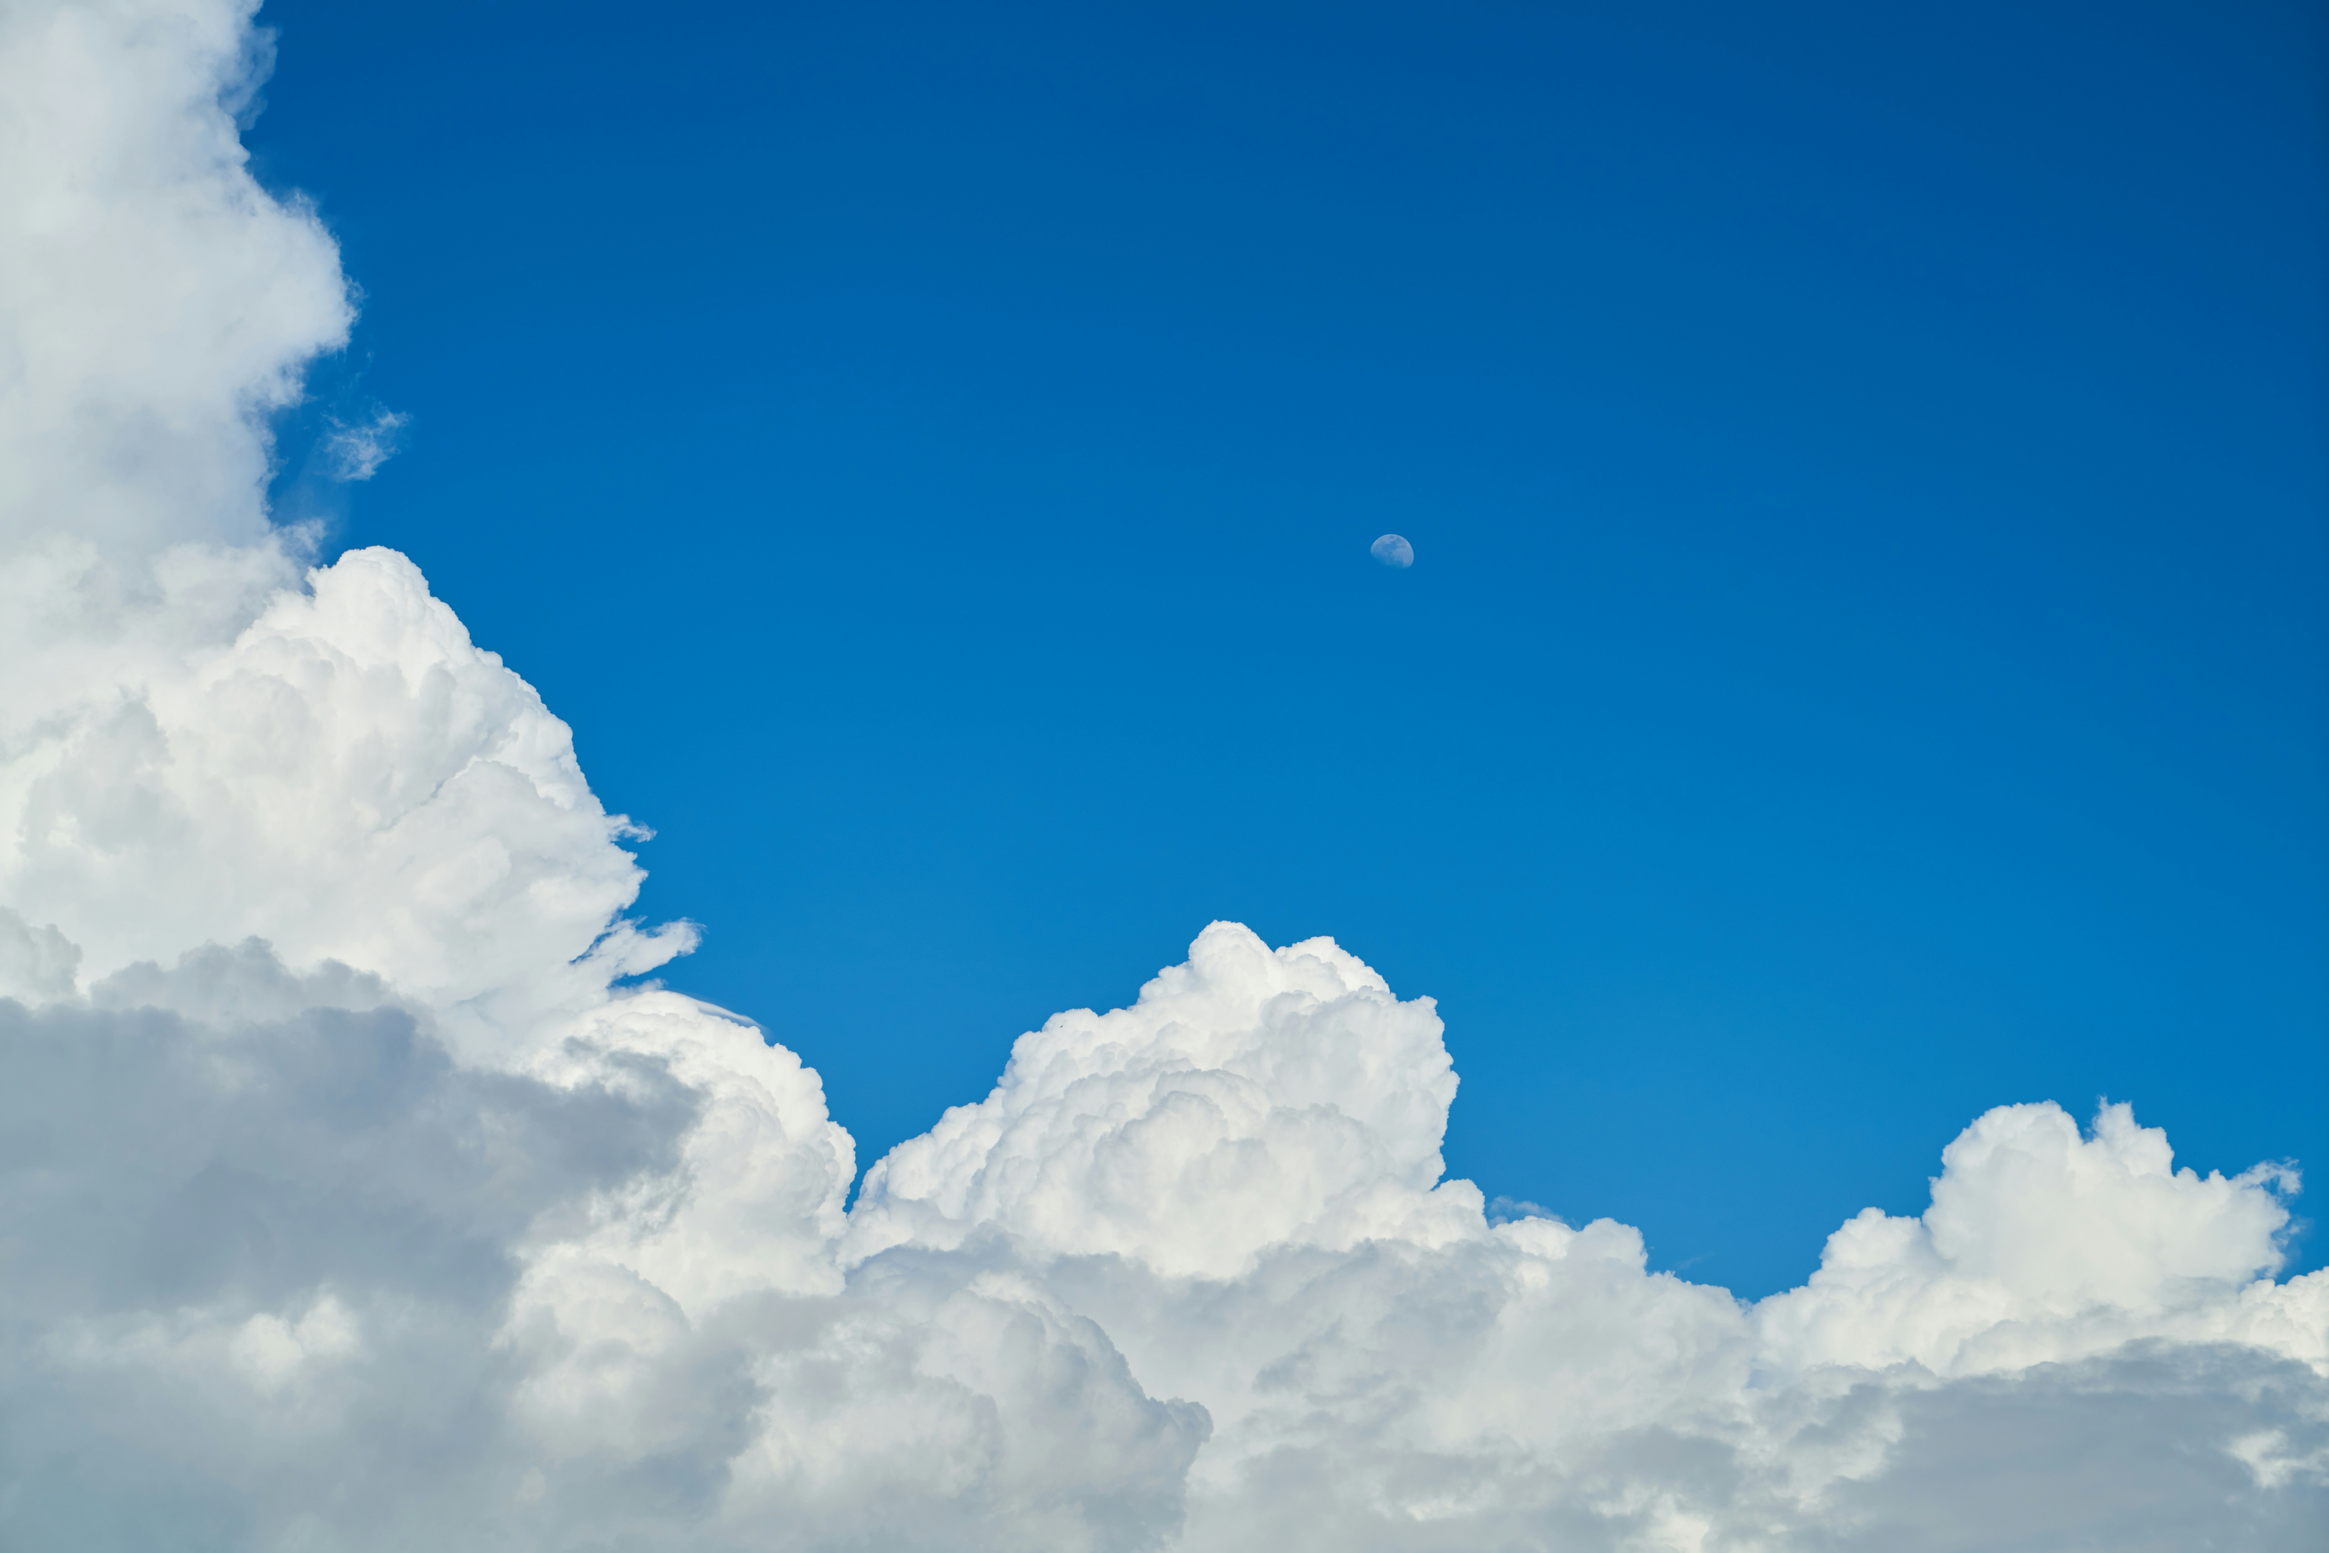
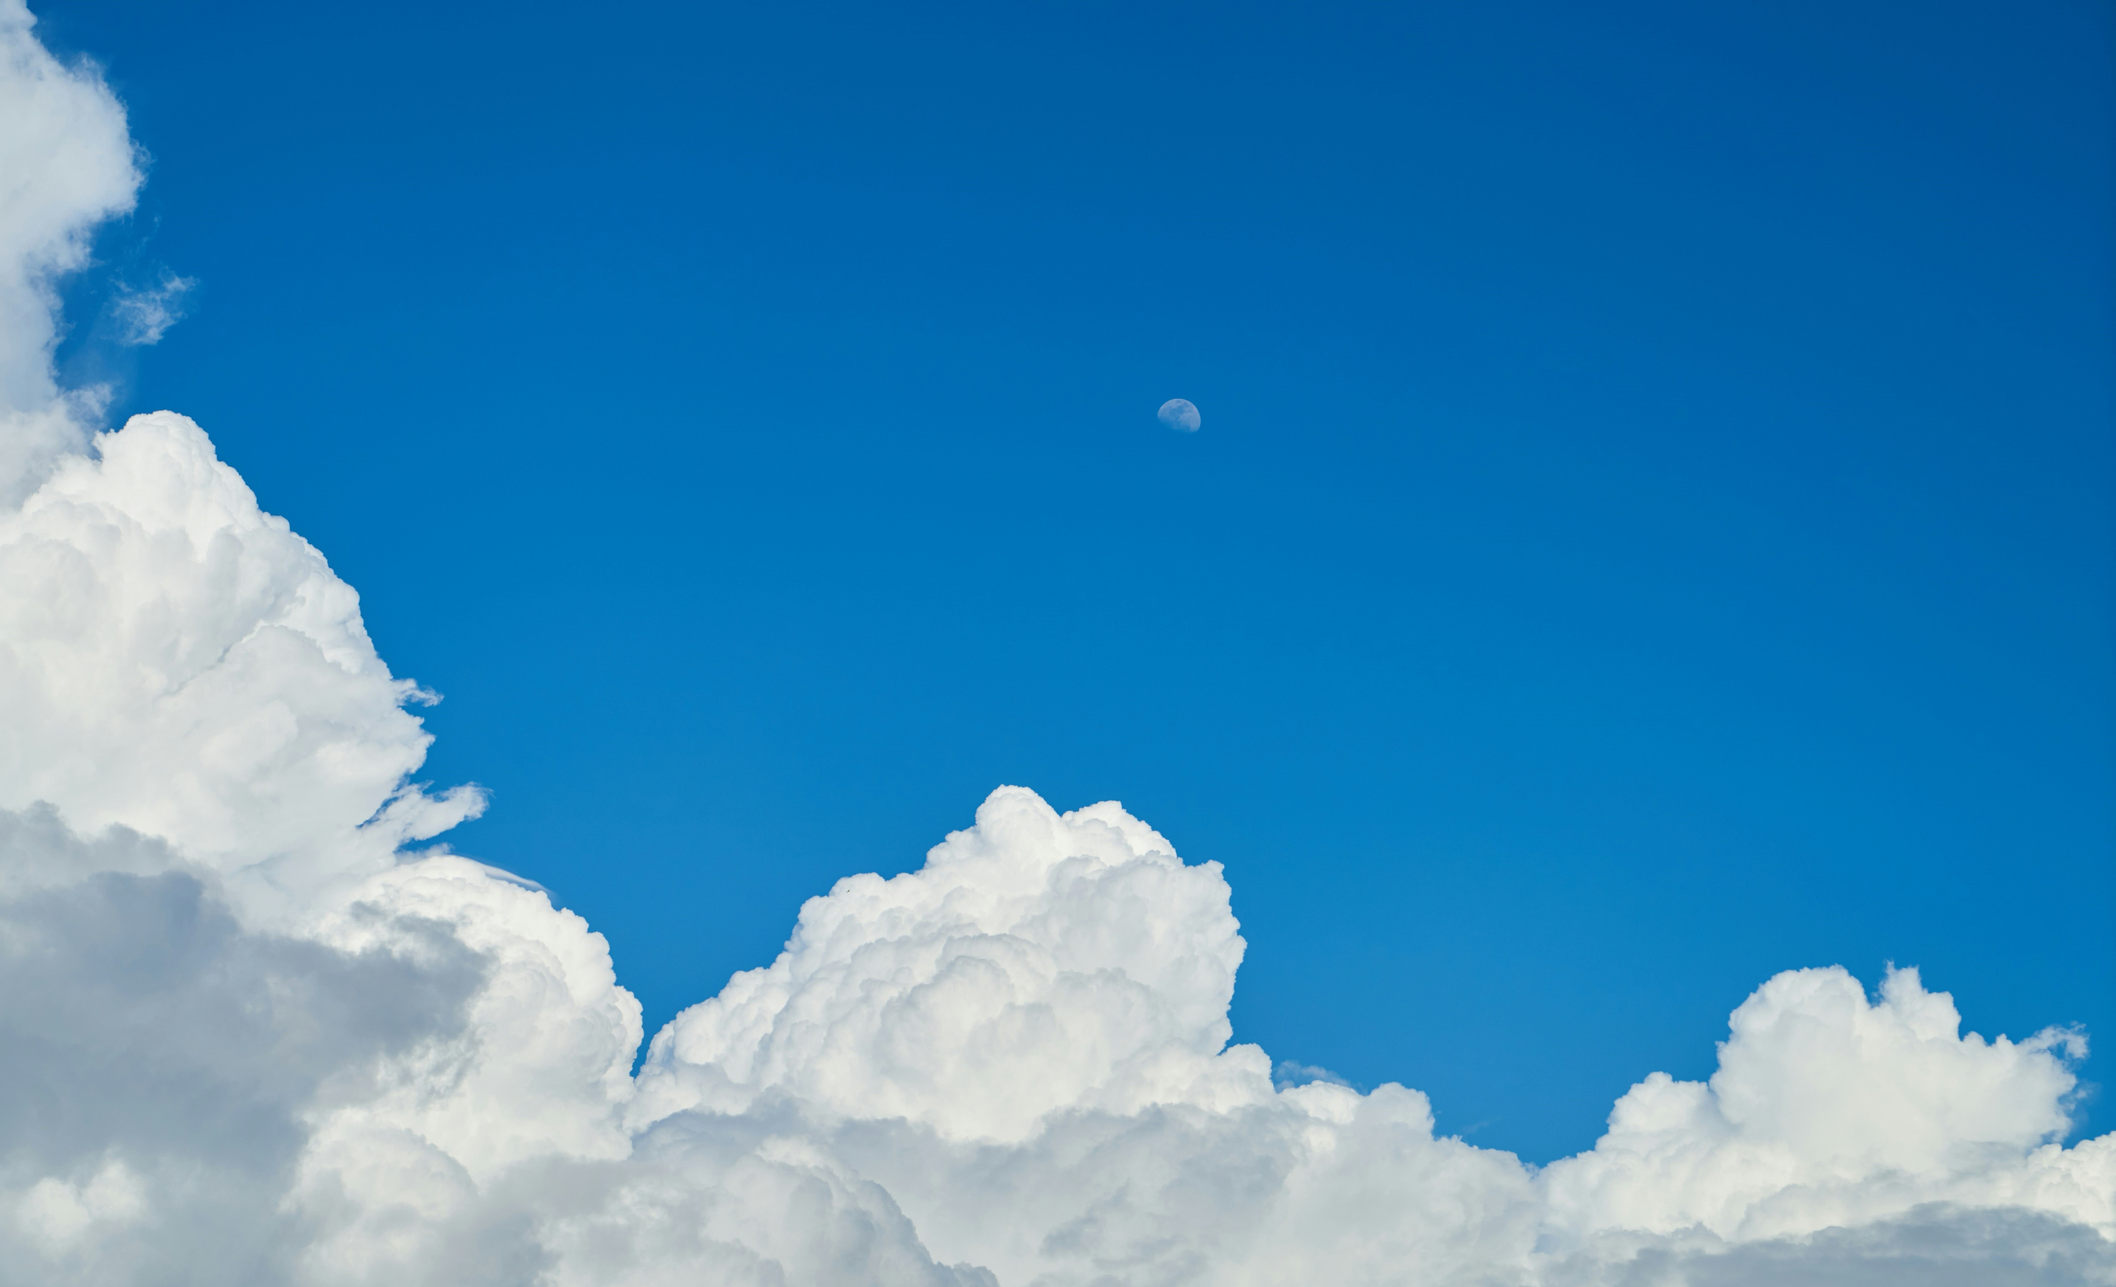
Update imgs and media queries

diff --git a/css/styles.css b/css/styles.css
@@ -32,8 +32,13 @@ a:hover {
 
 .part {
   opacity: 0;
-  transform: scale(1.1);
-  transition: opacity 1s, transform 1s;
+  transform: scale(1.05);
+}
+
+@media (prefers-reduced-motion: no-preference) {
+  .part {
+    transition: opacity 1s, transform 1s;
+  }
 }
 
 .part-transition {
@@ -245,10 +250,30 @@ footer a:hover {
   background: #00437a;
 }
 
-/* responsive elements width*/
+/*        responsive elements width        */
+/* for bigger screens */
+@media screen and (width >= 3001px) {
+  body {
+    font-size: 160%;
+  }
+  .intro-heading {
+    font-size: 5.5rem;
+  }
+  .intro-text {
+    font-size: 2.5rem;
+  }
+}
+
+@media screen and (2500px <= width <= 3000px) {
+  body {
+    font-size: 110%;
+  }
+}
+
+/* for smaller screens */
 @media screen and (min-width: 651px) and (max-width: 1800px) {
   section {
-    width: 74vw;
+    width: 78vw;
   }
 }
 
@@ -258,6 +283,14 @@ footer a:hover {
   }
   body {
     font-size: 90%;
+  }
+}
+
+@media screen and (max-width: 1400px) and (orientation: portrait) {
+  .intro {
+    background: url(../img/sky-cropped.jpg);
+    background-repeat: no-repeat;
+    background-size: cover;
   }
 }
 
@@ -332,19 +365,19 @@ footer a:hover {
 }
 
 /* responsive elements height*/
-@media (901px < height < 1250px) {
-  .container {
-    min-height: 120vh;
-  }
-}
-
-@media (height < 900px) {
+@media (height <= 900px) {
   .navbar {
     min-height: 2.5rem;
   }
 }
 
-@media (751px < height < 900px) {
+@media (901px <= height <= 1250px) {
+  .container {
+    min-height: 120vh;
+  }
+}
+
+@media (751px <= height <= 900px) {
   .container {
     min-height: 140vh;
   }
@@ -356,7 +389,7 @@ footer a:hover {
   }
 }
 
-@media (height < 750px) {
+@media (height <= 750px) {
   .container {
     min-height: 160vh;
   }
@@ -367,6 +400,6 @@ footer a:hover {
     margin-bottom: 1.5rem;
   }
   .part {
-    transform: scale(1);
+    transform: none;
   }
 }
